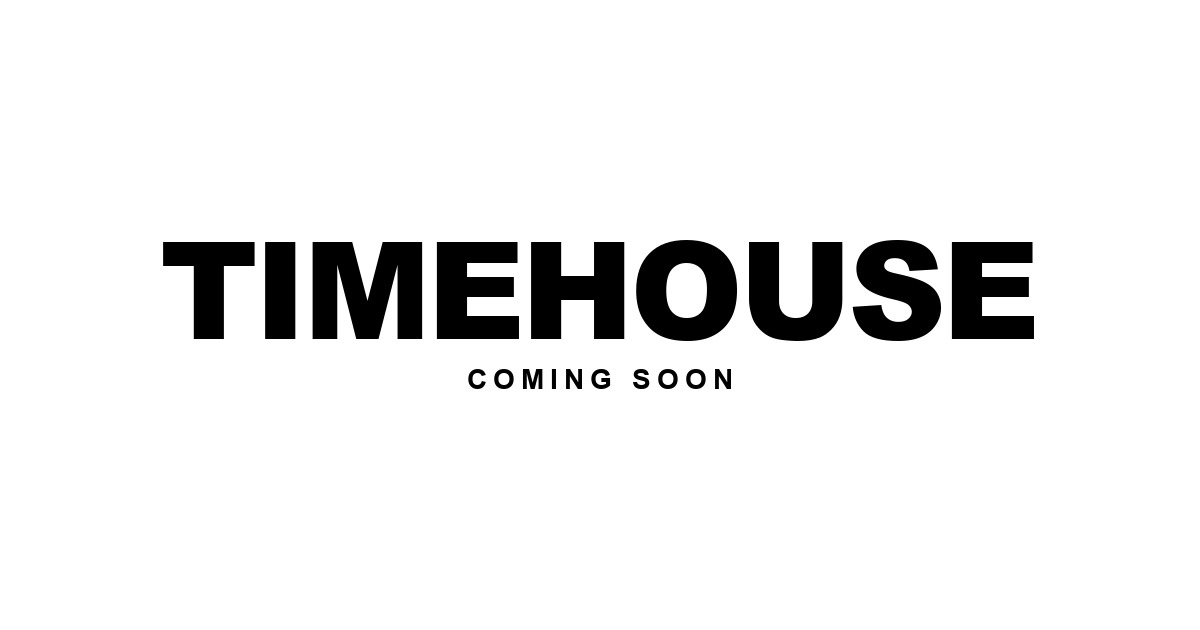
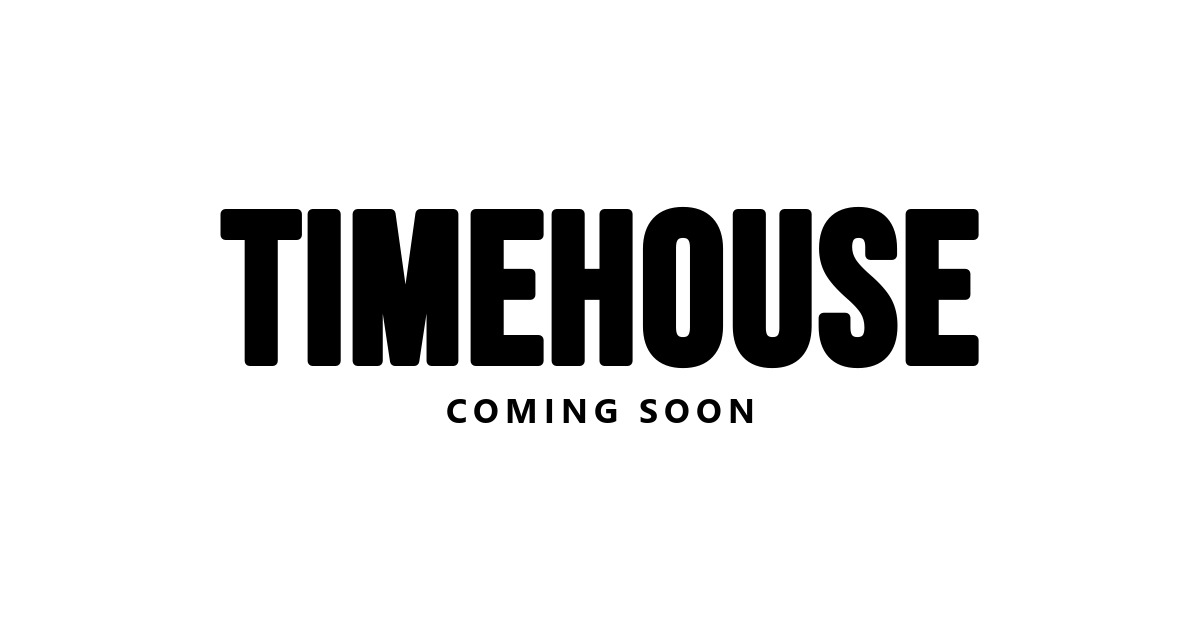
feat: use Bebas Neue 2xl typography and add automatic prefers-color-scheme dark mode

Changed region(s): [[0.1233, 0.3317, 0.8633, 0.6937]]

diff --git a/index.html b/index.html
@@ -13,7 +13,9 @@
   <meta name="robots" content="index, follow, max-image-preview:large, max-snippet:-1, max-video-preview:-1" />
   <meta name="googlebot" content="index, follow, max-image-preview:large, max-snippet:-1, max-video-preview:-1" />
   <meta name="author" content="Timehouse Creative Bali" />
-  <meta name="theme-color" content="#FFFFFF" />
+  <meta name="color-scheme" content="light dark" />
+  <meta name="theme-color" content="#FFFFFF" media="(prefers-color-scheme: light)" />
+  <meta name="theme-color" content="#000000" media="(prefers-color-scheme: dark)" />
   <meta name="geo.region" content="ID-BA" />
   <meta name="geo.placename" content="Canggu, Badung, Denpasar, Bali, Indonesia" />
   <meta name="geo.position" content="-8.6481;115.1385" />
@@ -228,7 +230,26 @@
   }
   </script>
 
+  <!-- Typography Fonts (Bebas Neue + Plus Jakarta Sans) -->
+  <link rel="preconnect" href="https://fonts.googleapis.com" />
+  <link rel="preconnect" href="https://fonts.gstatic.com" crossorigin />
+  <link rel="stylesheet"
+    href="https://fonts.googleapis.com/css2?family=Bebas+Neue&amp;family=Plus+Jakarta+Sans:wght@700&amp;display=swap" />
+
   <style>
+    :root {
+      color-scheme: light dark;
+      --bg: #ffffff;
+      --fg: #000000;
+    }
+
+    @media (prefers-color-scheme: dark) {
+      :root {
+        --bg: #000000;
+        --fg: #ffffff;
+      }
+    }
+
     *, *::before, *::after {
       box-sizing: border-box;
       margin: 0;
@@ -236,15 +257,15 @@
     }
 
     html, body {
-      background-color: #ffffff;
-      color: #000000;
+      background-color: var(--bg);
+      color: var(--fg);
       -webkit-font-smoothing: antialiased;
       -moz-osx-font-smoothing: grayscale;
     }
 
     ::selection {
-      background-color: #000000;
-      color: #ffffff;
+      background-color: var(--fg);
+      color: var(--bg);
     }
 
     main {
@@ -256,28 +277,30 @@
       justify-content: center;
       text-align: center;
       padding: clamp(24px, 6vw, 48px);
-      gap: clamp(12px, 2vw, 24px);
+      gap: clamp(10px, 2vw, 24px);
     }
 
     h1 {
-      font-family: "Helvetica Neue", Helvetica, Arial, sans-serif;
-      font-weight: 900;
-      font-size: clamp(2.35rem, 11.2vw, 9.5rem);
-      line-height: 0.92;
-      letter-spacing: -0.04em;
-      color: #000000;
+      font-family: "Bebas Neue", "Impact", "Arial Narrow", sans-serif;
+      font-weight: 400;
+      font-size: clamp(4.25rem, 17vw, 15rem);
+      line-height: 0.9;
+      letter-spacing: 0.035em;
+      color: var(--fg);
+      -webkit-text-stroke: 0.035em var(--fg);
+      paint-order: stroke fill;
       text-transform: uppercase;
       max-width: 100%;
       overflow-wrap: break-word;
     }
 
     p {
-      font-family: "Helvetica Neue", Helvetica, Arial, sans-serif;
+      font-family: "Plus Jakarta Sans", -apple-system, BlinkMacSystemFont, "Segoe UI", Roboto, sans-serif;
       font-weight: 700;
-      font-size: clamp(0.95rem, 1.9vw, 1.5rem);
+      font-size: clamp(1rem, 2.2vw, 1.875rem);
       line-height: 1.35;
       letter-spacing: 0.16em;
-      color: #000000;
+      color: var(--fg);
       text-transform: uppercase;
     }
   </style>

diff --git a/README.md b/README.md
@@ -9,9 +9,9 @@ Repositori ini berisi halaman utama minimalis **TIMEHOUSE** (`index.html`) serta
 ## Halaman Utama & Produk
 
 ### 1. Halaman Utama Minimalis (`index.html`)
-- **Tampilan Layar Tunggal**: Menampilkan judul **TIMEHOUSE** dan subjudul **COMING SOON** tepat di tengah layar (`min-height: 100dvh`) dengan latar putih solid (`#FFFFFF`) dan teks hitam (`#000000`, rasio kontras `21:1`).
-- **Tipografi Swiss Helvetica**: Menggunakan `"Helvetica Neue", Helvetica, Arial, sans-serif` (`font-weight: 900` untuk judul dan `font-weight: 700` untuk subjudul) dengan skala fluid `clamp()` agar tetap satu baris dan terbaca dari `320px` hingga layar desktop.
-- **Mandiri & Tanpa Dependensi Eksternal**: Seluruh gaya ditulis inline (`0 KB` JavaScript dan nol request CSS/font eksternal).
+- **Tampilan Layar Tunggal & Adaptif Light/Dark**: Menampilkan judul **TIMEHOUSE** dan subjudul **COMING SOON** tepat di tengah layar (`min-height: 100dvh`), otomatis mengikuti tema browser/perangkat melalui `prefers-color-scheme` (latar `#FFFFFF` dengan teks `#000000` pada light mode, atau latar `#000000` dengan teks `#FFFFFF` pada dark mode; rasio kontras `21:1` di kedua mode).
+- **Tipografi Display**: Menggunakan **Bebas Neue** (skala besar & tebal) untuk judul **TIMEHOUSE** dan **Plus Jakarta Sans** (`700`) untuk subjudul **COMING SOON** melalui Google Fonts, dengan skala fluid `clamp()` agar tetap satu baris dari `320px` hingga layar desktop.
+- **Ringan & Inline CSS**: Seluruh tata letak memakai CSS inline tanpa skrip JS (`0 KB` JavaScript) dan tanpa stylesheet Tailwind.
 - **Metadata SEO**: Dilengkapi `<title>`, `meta description`, `canonical`, tag `geo.*`, Open Graph (`1200x630`), Twitter Card, dan JSON-LD (`ProfessionalService` / `LocalBusiness`, `SoftwareApplication`, `WebSite`, serta `WebPage`).
 
 ### 2. Halaman Produk VexaPOS (`vexapos.html`)
